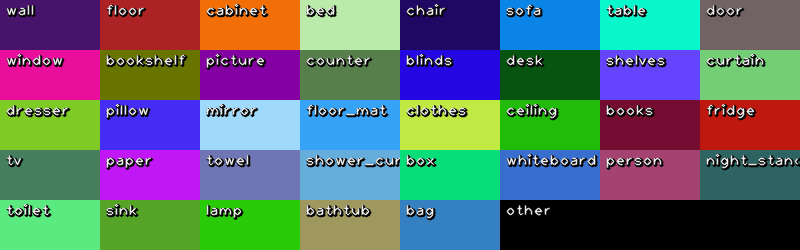
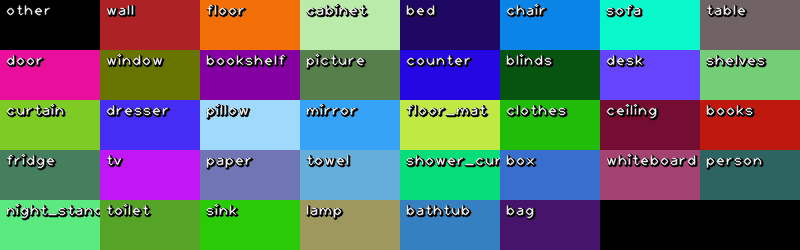
add legend

diff --git a/config.py b/config.py
@@ -19,6 +19,7 @@ folder_rgb_image = 'image'
 seg_path = 'data/SUNRGBD2Dseg/'
 
 seg37list = hdf5storage.loadmat('seg37list.mat')['seg37list'][0]
+seg37list = [seg[0] for seg in seg37list]
 # print(seg37list)
 # ['wall',
 #  'floor',
@@ -60,9 +61,9 @@ seg37list = hdf5storage.loadmat('seg37list.mat')['seg37list'][0]
 
 # all =  [seg37list, other]
 
-objectColors = ['#6a1446', '#2523ad', '#066ff1', '#abebbb', '#64071f', '#e6840a', '#ccf808', '#636371', '#9d0eea',
+objectColors = ['#000000', '#2523ad', '#066ff1', '#abebbb', '#64071f', '#e6840a', '#ccf808', '#636371', '#9d0eea',
                 '#007567', '#a20084', '#4c7f57', '#e20724', '#0f5406', '#fd4465', '#75ce74', '#25cb7e', '#f62d45',
                 '#fcda9f', '#f7a337', '#44e9c0', '#0abc21', '#330d75', '#0f18bf', '#5e7f46', '#f417c0', '#b57670',
                 '#dcae65', '#79dd07', '#ce6f38', '#7143a4', '#61632d', '#80ea5b', '#27a355', '#09cb29', '#5f989e',
-                '#c08035', '#000000']
+                '#c08035', '#6a1446']
 colors = [[int(c[1:3], 16), int(c[3:5], 16), int(c[5:7], 16)] for c in objectColors]

diff --git a/legend.py b/legend.py
@@ -10,17 +10,15 @@ if __name__ == '__main__':
     margin_x, margin_y = 5, 15
 
     frame = np.zeros((num_rows * height_cell, num_cols * width_cell, 3), np.uint8)
+    seg38list = np.append('other', seg37list)
 
     for i in range(num_rows):
         for j in range(num_cols):
             id = i * num_cols + j
             print(id)
-            if id <= num_classes - 1:
+            if id < num_classes:
                 color = colors[id]
-                if id == num_classes - 1:
-                    name = 'other'
-                else:
-                    name = seg37list[id][0]
+                name = seg38list[id]
                 print(name)
                 top = i * height_cell
                 left = j * width_cell

diff --git a/README.md b/README.md
@@ -1,45 +1,45 @@
-# SemanticSegmentation
+# 语义分割
 
-This repository is to do Indoor Semantic Segmentation with SegNet.
+用SegNet进行室内语义分割。
 
-## Dependencies
+## 依赖
 - [NumPy](http://docs.scipy.org/doc/numpy-1.10.1/user/install.html)
 - [Tensorflow](https://www.tensorflow.org/versions/r0.8/get_started/os_setup.html)
 - [Keras](https://keras.io/#installation)
 - [OpenCV](https://opencv-python-tutroals.readthedocs.io/en/latest/)
 
-## Dataset
+## 数据集
 
 ![image](https://github.com/foamliu/Semantic-Segmentation/raw/master/images/dataset.png)
 
-Follow the [instruction](http://3dvision.princeton.edu/projects/2015/SUNrgbd/) to download SUN RGB-D dataset into data folder.
+按照 [instruction](http://3dvision.princeton.edu/projects/2015/SUNrgbd/) 下载 SUN RGB-D 数据集并放在 data 目录内。
 
 ```bash
 $ wget http://3dvision.princeton.edu/projects/2015/SUNrgbd/data/SUNRGBD.zip
 $ wget http://3dvision.princeton.edu/projects/2015/SUNrgbd/data/SUNRGBDtoolbox.zip
 ```
 
-## Architecture
+## 架构
 
 ![image](https://github.com/foamliu/Semantic-Segmentation/raw/master/images/segnet.png)
 
 
-## ImageNet Pretrained Models
-Download [VGG16](https://github.com/fchollet/deep-learning-models/releases/download/v0.1/vgg16_weights_tf_dim_ordering_tf_kernels.h5) into models folder.
+## ImageNet 预训练模型
+下载 [VGG16](https://github.com/fchollet/deep-learning-models/releases/download/v0.1/vgg16_weights_tf_dim_ordering_tf_kernels.h5) 放在 models 目录内。
 
-## Usage
-### Data Pre-processing
+## 用法
+### 数据预处理
 The dataset contains 10335 RGBD images of SUNRGBD V1, extract training images:
 ```bash
 $ python pre-process.py
 ```
 
-### Train
+### 训练
 ```bash
 $ python train.py
 ```
 
-If you want to visualize during training, run in your terminal:
+如果想可视化训练过程，执行：
 ```bash
 $ tensorboard --logdir path_to_current_dir/logs
 ```
@@ -49,6 +49,9 @@ $ tensorboard --logdir path_to_current_dir/logs
 ```bash
 $ python demo.py
 ```
+
+图例
+![image](https://github.com/foamliu/Semantic-Segmentation/raw/master/images/legend.png)
 
 Input | GT | Output |
 |---|---|---|
@@ -63,4 +66,3 @@ Input | GT | Output |
 |![image](https://github.com/foamliu/Semantic-Segmentation/raw/master/images/8_image.png)  | ![image](https://github.com/foamliu/Semantic-Segmentation/raw/master/images/8_gt.png) | ![image](https://github.com/foamliu/Semantic-Segmentation/raw/master/images/8_out.png)|
 |![image](https://github.com/foamliu/Semantic-Segmentation/raw/master/images/9_image.png)  | ![image](https://github.com/foamliu/Semantic-Segmentation/raw/master/images/9_gt.png) | ![image](https://github.com/foamliu/Semantic-Segmentation/raw/master/images/9_out.png)|
 
-![image](https://github.com/foamliu/Semantic-Segmentation/raw/master/images/legend.png)
